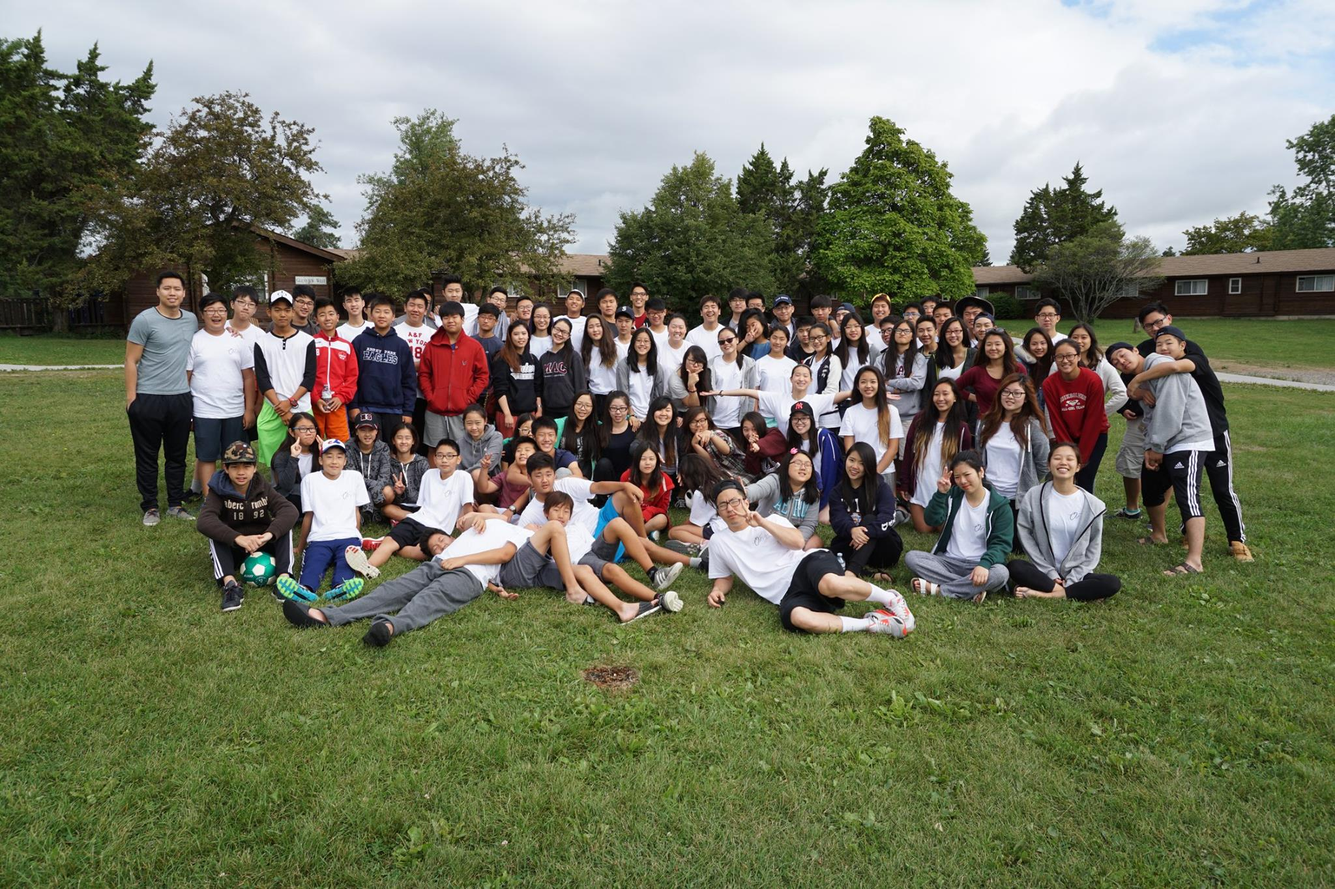
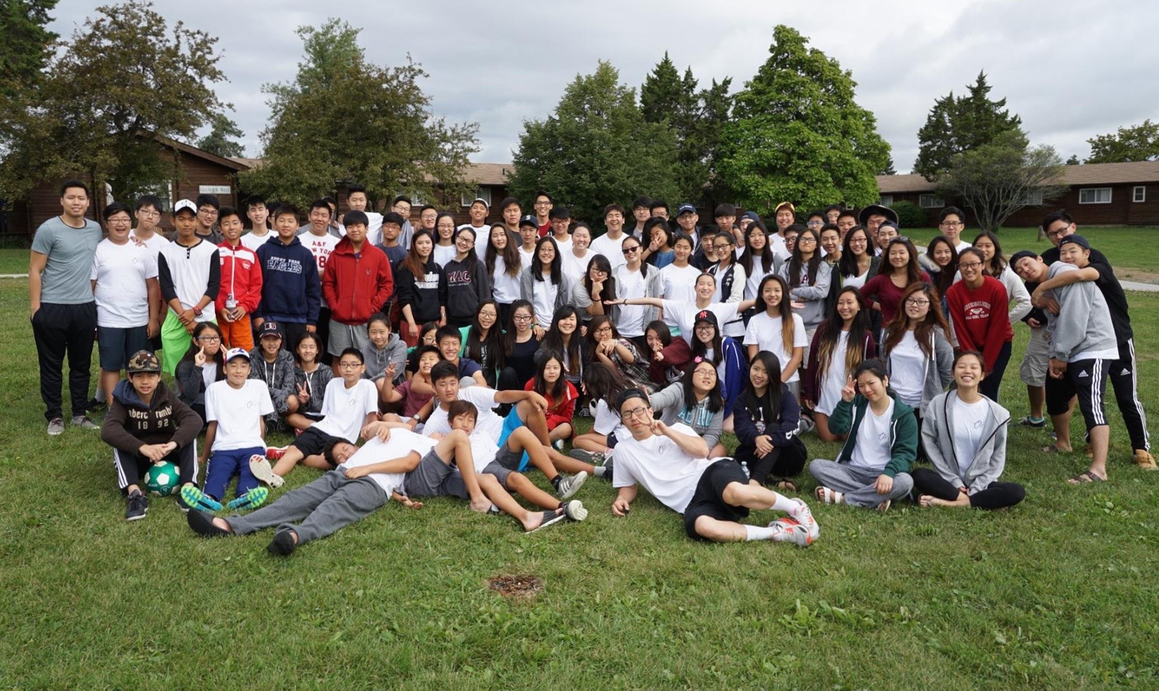
general improvements to about page (and added image)

diff --git a/about.html b/about.html
@@ -144,15 +144,23 @@
     </div><!-- /.carousel -->
 
 <div class="container">
-  <h1 id="about" class="featurette-heading">What We're About</h1>
-  <p class="lead">What defines family?  A family does not need to be blood-related or live in the same household.  For us, family is a deep level of trust and love that people have for one another, and a place where you can simply be yourself with no judgement.  In other words, family is a step beyond community, and our vision for the youth group.  As Christ loved us, so we strive to love one another. We would love to adopt others in the family of God as Christ has adopted each and every one of us into His!</p>
   <div class="row">
-    <div class="col-sm-6">
+    <div class="col-md-6">
+      <img id="retreat2015" class="img-responsive" src="img/retreat2015.jpg">
+    </div>
+    <div class="col-md-6">
+      <h1 id="about" class="featurette-heading">What We're About</h1>
+      <p class="lead">What defines family?  A family does not need to be blood-related or live in the same household.  For us, family is a deep level of trust and love that people have for one another, and a place where you can simply be yourself with no judgement.  In other words, family is a step beyond community, and our vision for the youth group.  As Christ loved us, so we strive to love one another. We would love to adopt others in the family of God as Christ has adopted each and every one of us into His!</p>
+    </div>
+
+  <div id="maps" class="row container">
+
+    <div class="col-md-6">
       <h3 class="lead">Address: 405 Gordon Baker Rd, North York, ON M2H 2S6</h3>
       <h3 class="lead">Sunday Service: 12:30 PM</h3>
       <h3 class="lead">Friday Night Fellowship: 6:00 PM</h3>
     </div>
-    <div class="col-sm-6">
+    <div class="col-md-6">
       <iframe src="https://www.google.com/maps/embed?pb=!1m18!1m12!1m3!1d2879.3323605965406!2d-79.34469899999999!3d43.807465!2m3!1f0!2f0!3f0!3m2!1i1024!2i768!4f13.1!3m3!1m2!1s0x89d4d372c5b519e9%3A0xf9e56d86f87daec5!2sMilal+Church!5e0!3m2!1sen!2sca!4v1439562949950" width="600" height="450" frameborder="0" style="border:0" allowfullscreen></iframe>
     </div>
   </div>

diff --git a/css/custom-style.css b/css/custom-style.css
@@ -37,8 +37,18 @@ html
 
 }
 
+#retreat2015 {
+	margin-top: -15px;
+	padding-bottom: 20px;
+}
+
 #about {
 	margin-top:-20px;
+	padding-bottom:20px;
+}
+
+#maps {
+	margin-top: 20px;
 }
 
 #pastorsteachers {
